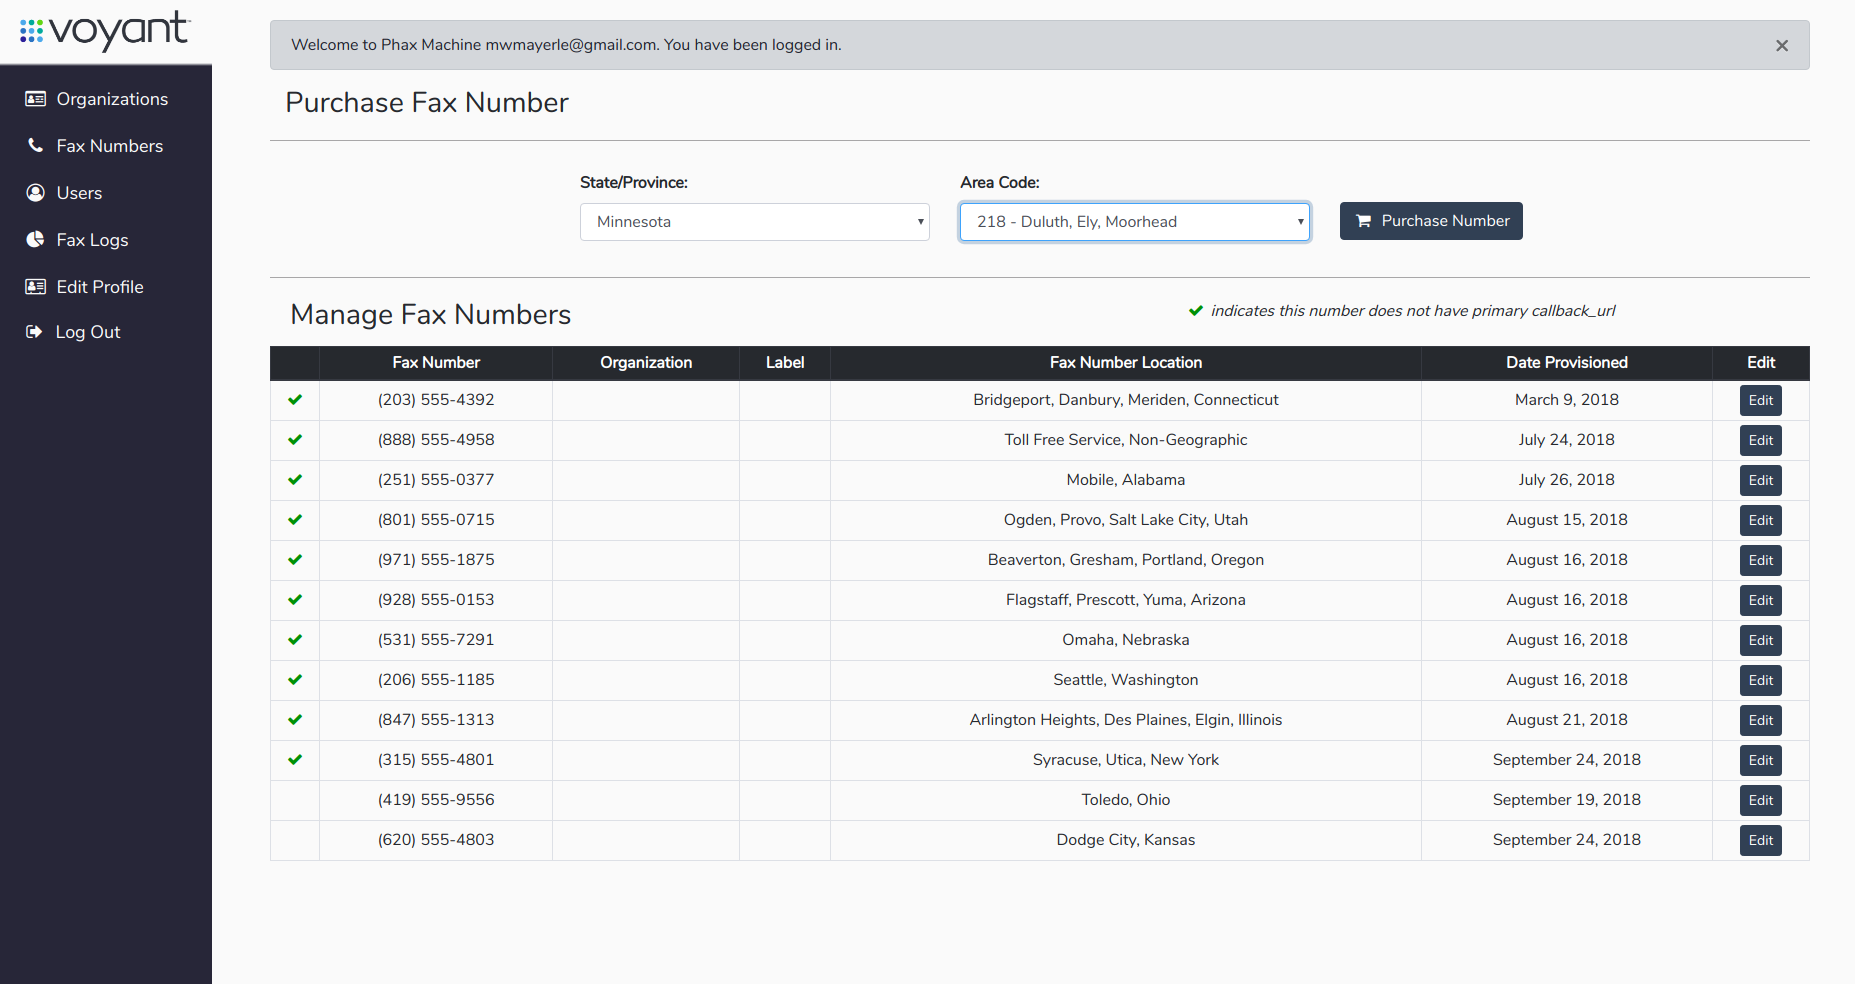
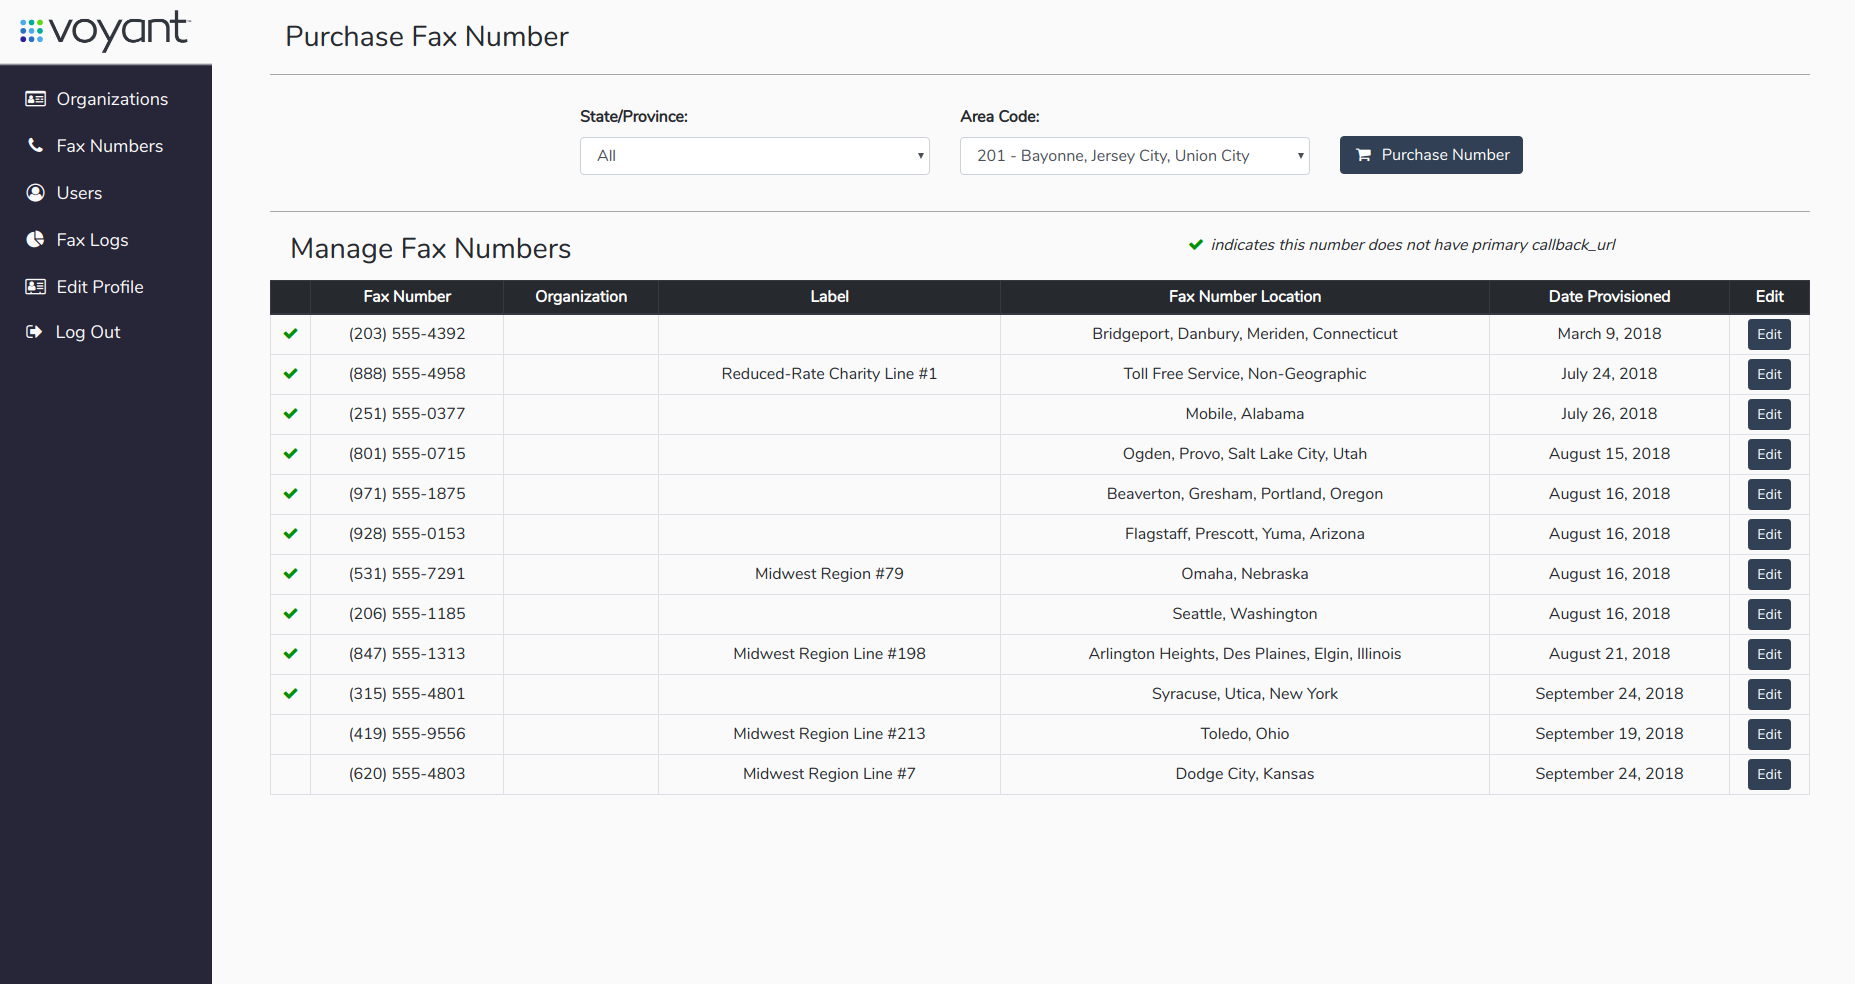
Beginning to flesh out organization specific documentation

diff --git a/README.md b/README.md
@@ -93,8 +93,9 @@ the button above, you'll need to follow these instructions:
 ## User Guide/Walkthrough
 After initial setup is complete, an email will be sent to the address in the "ADMIN_EMAIL" field inviting the admin to set their password and finish setting up their account. The admin will then be redirected to the fax numbers page. 
 
+### Admin Functions
 #### Fax Numbers Page
-The Fax Numbers page displays a table of all fax numbers in the admin's account, the organization the fax number is linked to, an optional label, the date the fax number was provisioned, the location of the fax number, and whether or not the fax number has a 'callback_url' assigned to it. Fax numbers with an assigned callback_url will not work with Phax Machine. To manage callback_url's assigned to your fax numbers, head over to your [phone numbers page](https://console.phaxio.com/phone_numbers) in your Phaxio account. Fax numbers with an assigned callback_url will be at the bottom of the fax numbers table.
+The Fax Numbers page displays a table of all fax numbers in the admin's account, the organization the fax number is linked to, an optional label, the date the fax number was provisioned, the location of the fax number, and whether or not the fax number has a 'callback_url' assigned to it. Fax numbers with an assigned callback_url will not work with Phax Machine. To manage callback_url's assigned to your fax numbers, head over to your [phone numbers page](https://console.phaxio.com/phone_numbers) in your Phaxio account, and then reload the Fax Numbers page when you're done editing your changes. Fax numbers with an assigned callback_url will be at the bottom of the fax numbers table. In the example below, several lines have already been labeled.
 
 ![FaxNumberPage](https://raw.githubusercontent.com/mwmayerle/new_phax_machine/master/app/assets/images/faxnumberpage.png)
 
@@ -103,3 +104,12 @@ The Fax Numbers page also allows the Admin to provision a new fax number. The Ar
 If the Admin desires, they may add a label to any fax number that can only be viewed by the Admin by clicking one of the edit buttons on the right of the table. The Admin can also move the fax number into a different organization by selecting it from the dropdown menu (this will remove all users linked to the number in its previous organization), or remove the fax number from its organization.
 
 ![EditFaxNumberPage](https://raw.githubusercontent.com/mwmayerle/new_phax_machine/master/app/assets/images/editfaxnumberpage.png)
+
+#### Organizations Page
+Organizations are groups of users and fax numbers set by the Admin. To create an organization, head to the Organizations Page ("Organizations" on the navbar) and click the "Add New Organization" button in the top right corner of the screen.
+
+This page displays all fax numbers that are not assigned to a organization in the "Add fax numbers" table. Please note that fax numbers with a red X next to them already have a primary callback_url will not have fax-to-email capabilities.
+
+![EditFaxNumberPage](https://raw.githubusercontent.com/mwmayerle/new_phax_machine/master/app/assets/images/editfaxnumberpage.png)
+
+When creating an organization, the Admin checks the box of fax numbers they would like to assign to the organization, gives the irganization a name (this name will be seen by the organization's manager), and decides if the Manager of the organization will be allowed to purchase additional fax numbers. In this example we're creating the "Great Plains LLC" organization, adding all of the fax numbers that are already labeled, and allowing fax numbers to be purchased by the organization.
